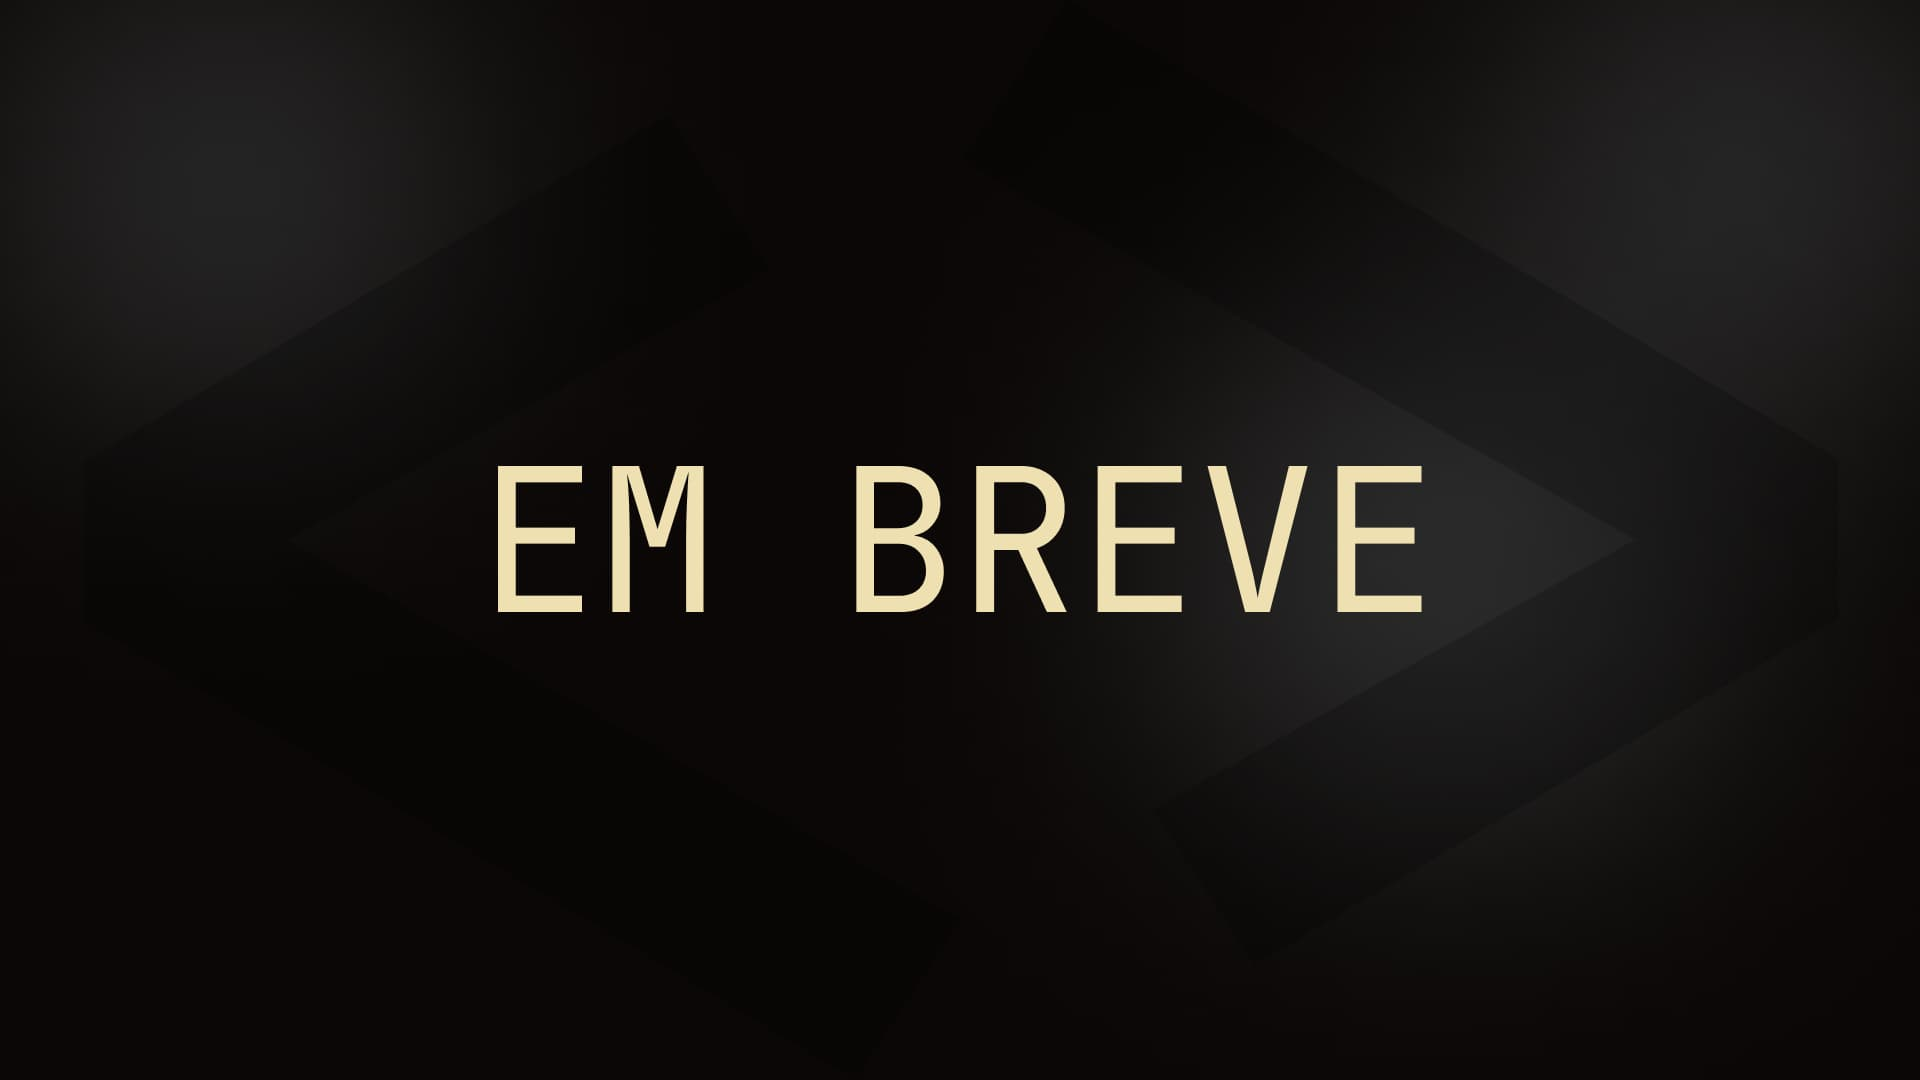
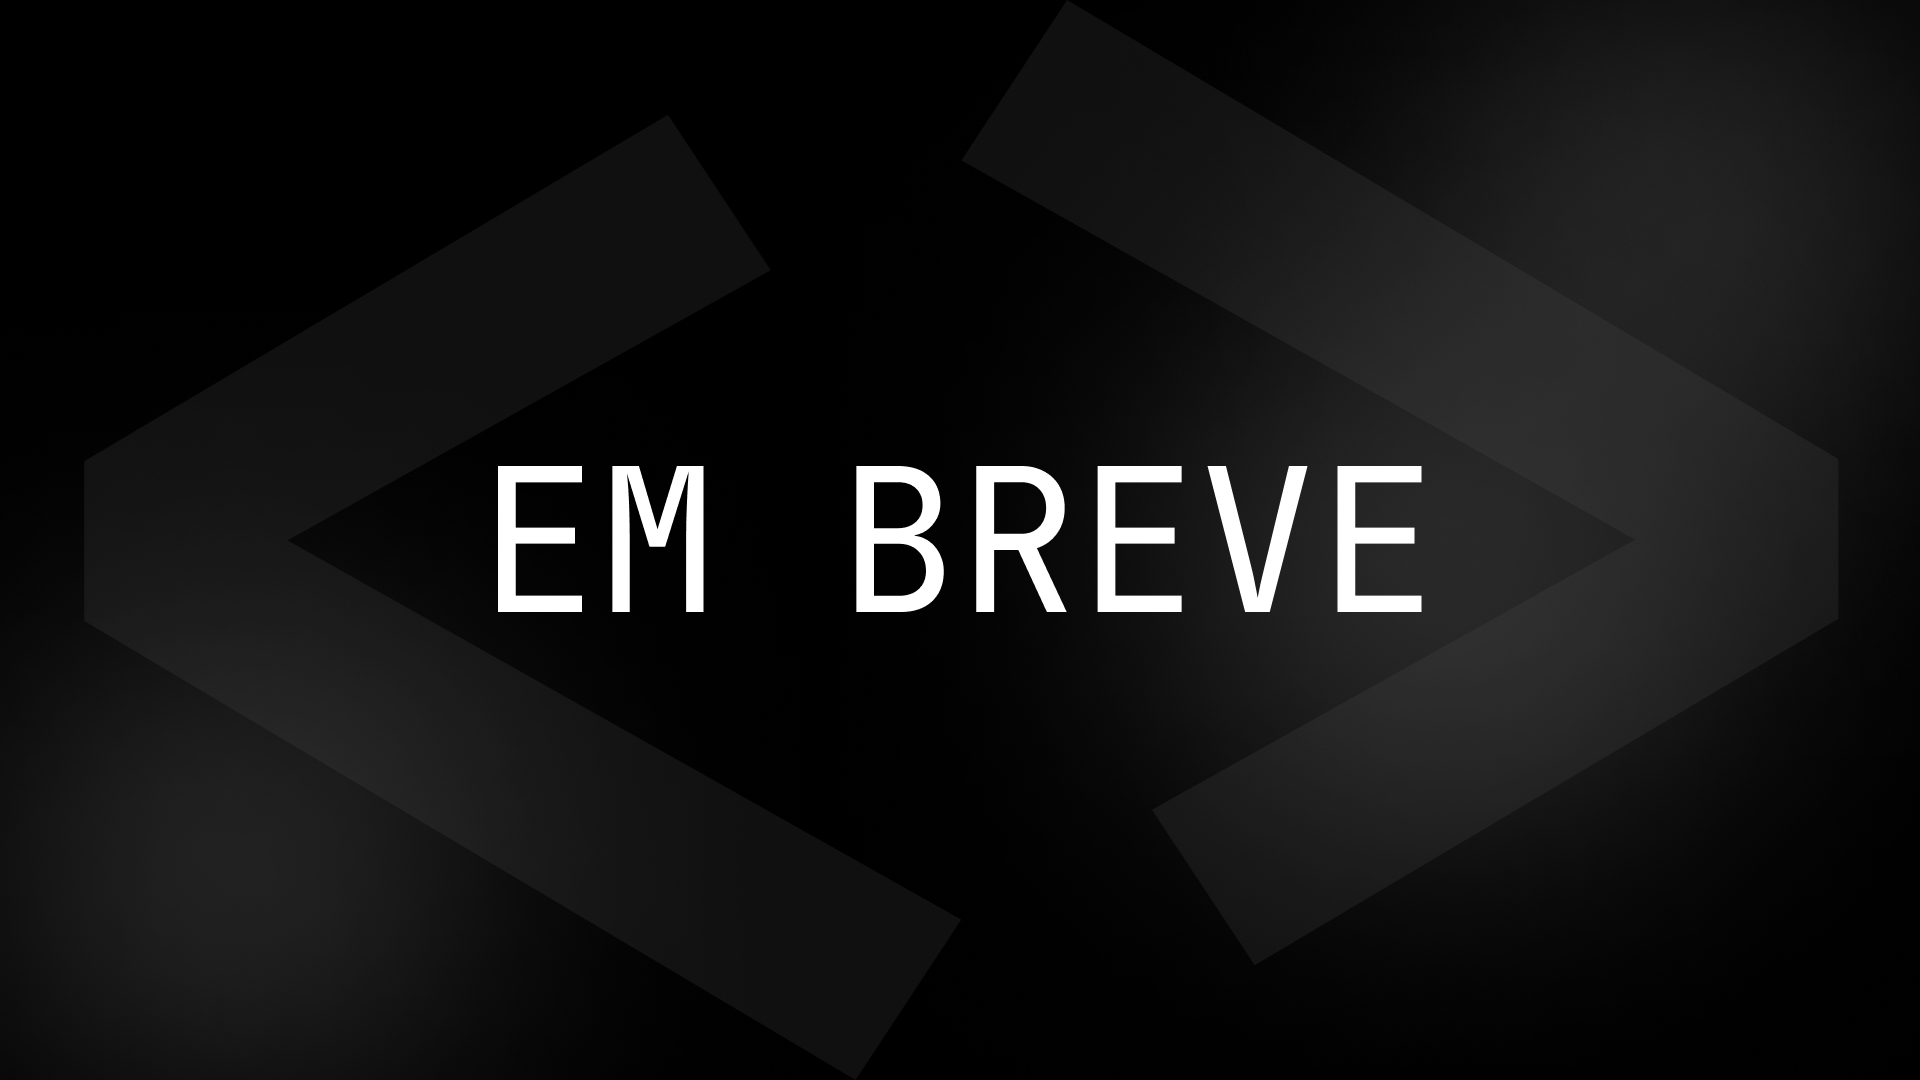
att: colors theme

diff --git a/components/Nav.js b/components/Nav.js
@@ -36,12 +36,12 @@ const Nav = () => {
   const router = useRouter();
   const pathname = router.pathname;
   return (
-    <nav className="flex flex-col items-center xl:justify-center gap-y-4 fixed h-max bottom-0 mt-auto xl:right-[2%] z-50 top-0 w-full xl:w-16 xl:max-w-md xl:h-screen">
+    <nav className="flex flex-col items-center xl:justify-center gap-y-4 fixed h-max bottom-0 mt-auto xl:right-[2%] z-40 top-0 w-full xl:w-16 xl:max-w-md xl:h-screen">
       {/* inner */}
       <Link
         href={'https://3chains.vercel.app'}
         target="_blank"
-        className="absolute block lg:hidden pt-4 animate-pulse -top-11 right-0 text-base tracking-widest hover:text-accent transition all duration-300">
+        className="absolute block lg:hidden pt-4 animate-pulse -top-11 right-0 text-base tracking-widest hover:text-gray-900 transition all duration-300">
         visite meu blog &rarr;
       </Link>
       <div className="flex w-full xl:flex-col items-center justify-between xl:justify-center gap-y-10 px-4 md:px-40 xl:px-0 h-[80px] xl:h-max py-8 bg-white/10 backdrop-blur-sm text-3xl xl:text-xl xl:rounded-full">
@@ -50,7 +50,7 @@ const Nav = () => {
             <Link
               className={`${
                 link.path === pathname && 'text-accent'
-              } relative flex items-center group hover:text-accent transition-all duration-300`}
+              } relative flex items-center group hover:text-zinc-600 xl:hover:text-black transition-all duration-300`}
               href={link.path}
               key={index}>
               {/* tooltip */}

diff --git a/components/Header.js b/components/Header.js
@@ -9,7 +9,7 @@ import Socials from '../components/Socials';
 
 const Header = () => {
   return (
-    <header className="absolute z-30 w-full flex items-center px-16 xl:px-0 xl:h-[90px]">
+    <header className="absolute z-50 w-full flex items-center px-16 xl:px-0 xl:h-[90px]">
       <div className="container mx-auto">
         <div className="flex flex-col lg:flex-row justify-between items-center gap-y-6 py-4">
           {/* logo */}

diff --git a/styles/globals.css b/styles/globals.css
@@ -8,14 +8,14 @@
 .swiper-horizontal > .swiper-pagination-bullets .swiper-pagination-bullet,
 .swiper-pagination-horizontal.swiper-pagination-bullets
   .swiper-pagination-bullet {
-  background-color: #eee0b1;
+  background-color: #fff;
 }
 
 .swiper-button-next:after,
 .swiper-button-prev:after,
 .swiper-button-next:after,
 .swiper-rtl .swiper-button-prev:after {
-  color: #eee0b1;
+  color: #fff;
 }
 
 @layer base {

diff --git a/components/Transition.js b/components/Transition.js
@@ -42,7 +42,7 @@ const Transition = () => {
           ease: 'easeInOut'
         }}></motion.div>
       <motion.div
-        className="fixed top-0 bottom-0 right-full w-screen h-screen z-10 bg-[#8A8164]"
+        className="fixed top-0 bottom-0 right-full w-screen h-screen z-10 bg-[#aaa]"
         variants={transitionVariants}
         initial="initial"
         animate="animate"

diff --git a/tailwind.config.js b/tailwind.config.js
@@ -24,9 +24,9 @@ module.exports = {
       colors: {
         primary: '#131424',
         secondary: '#393A47',
-        accent: '#EEE0B1',
-        bg: '#17100D',
-        color: '#fff'
+        accent: '#fff',
+        bg: '#333',
+        color: '#888'
       },
       backgroundImage: {
         explosion: 'url("/bg-explosion.webp")',

diff --git a/components/ParticlesContainer.js b/components/ParticlesContainer.js
@@ -31,9 +31,9 @@ const ParticlesContainer = () => {
           }
         },
         particles: {
-          color: '#E1D795',
+          color: '#aaa',
           links: {
-            color: '#EFEACA',
+            color: '#fff',
             distance: 150,
             enable: true,
             opacity: 0.5,
